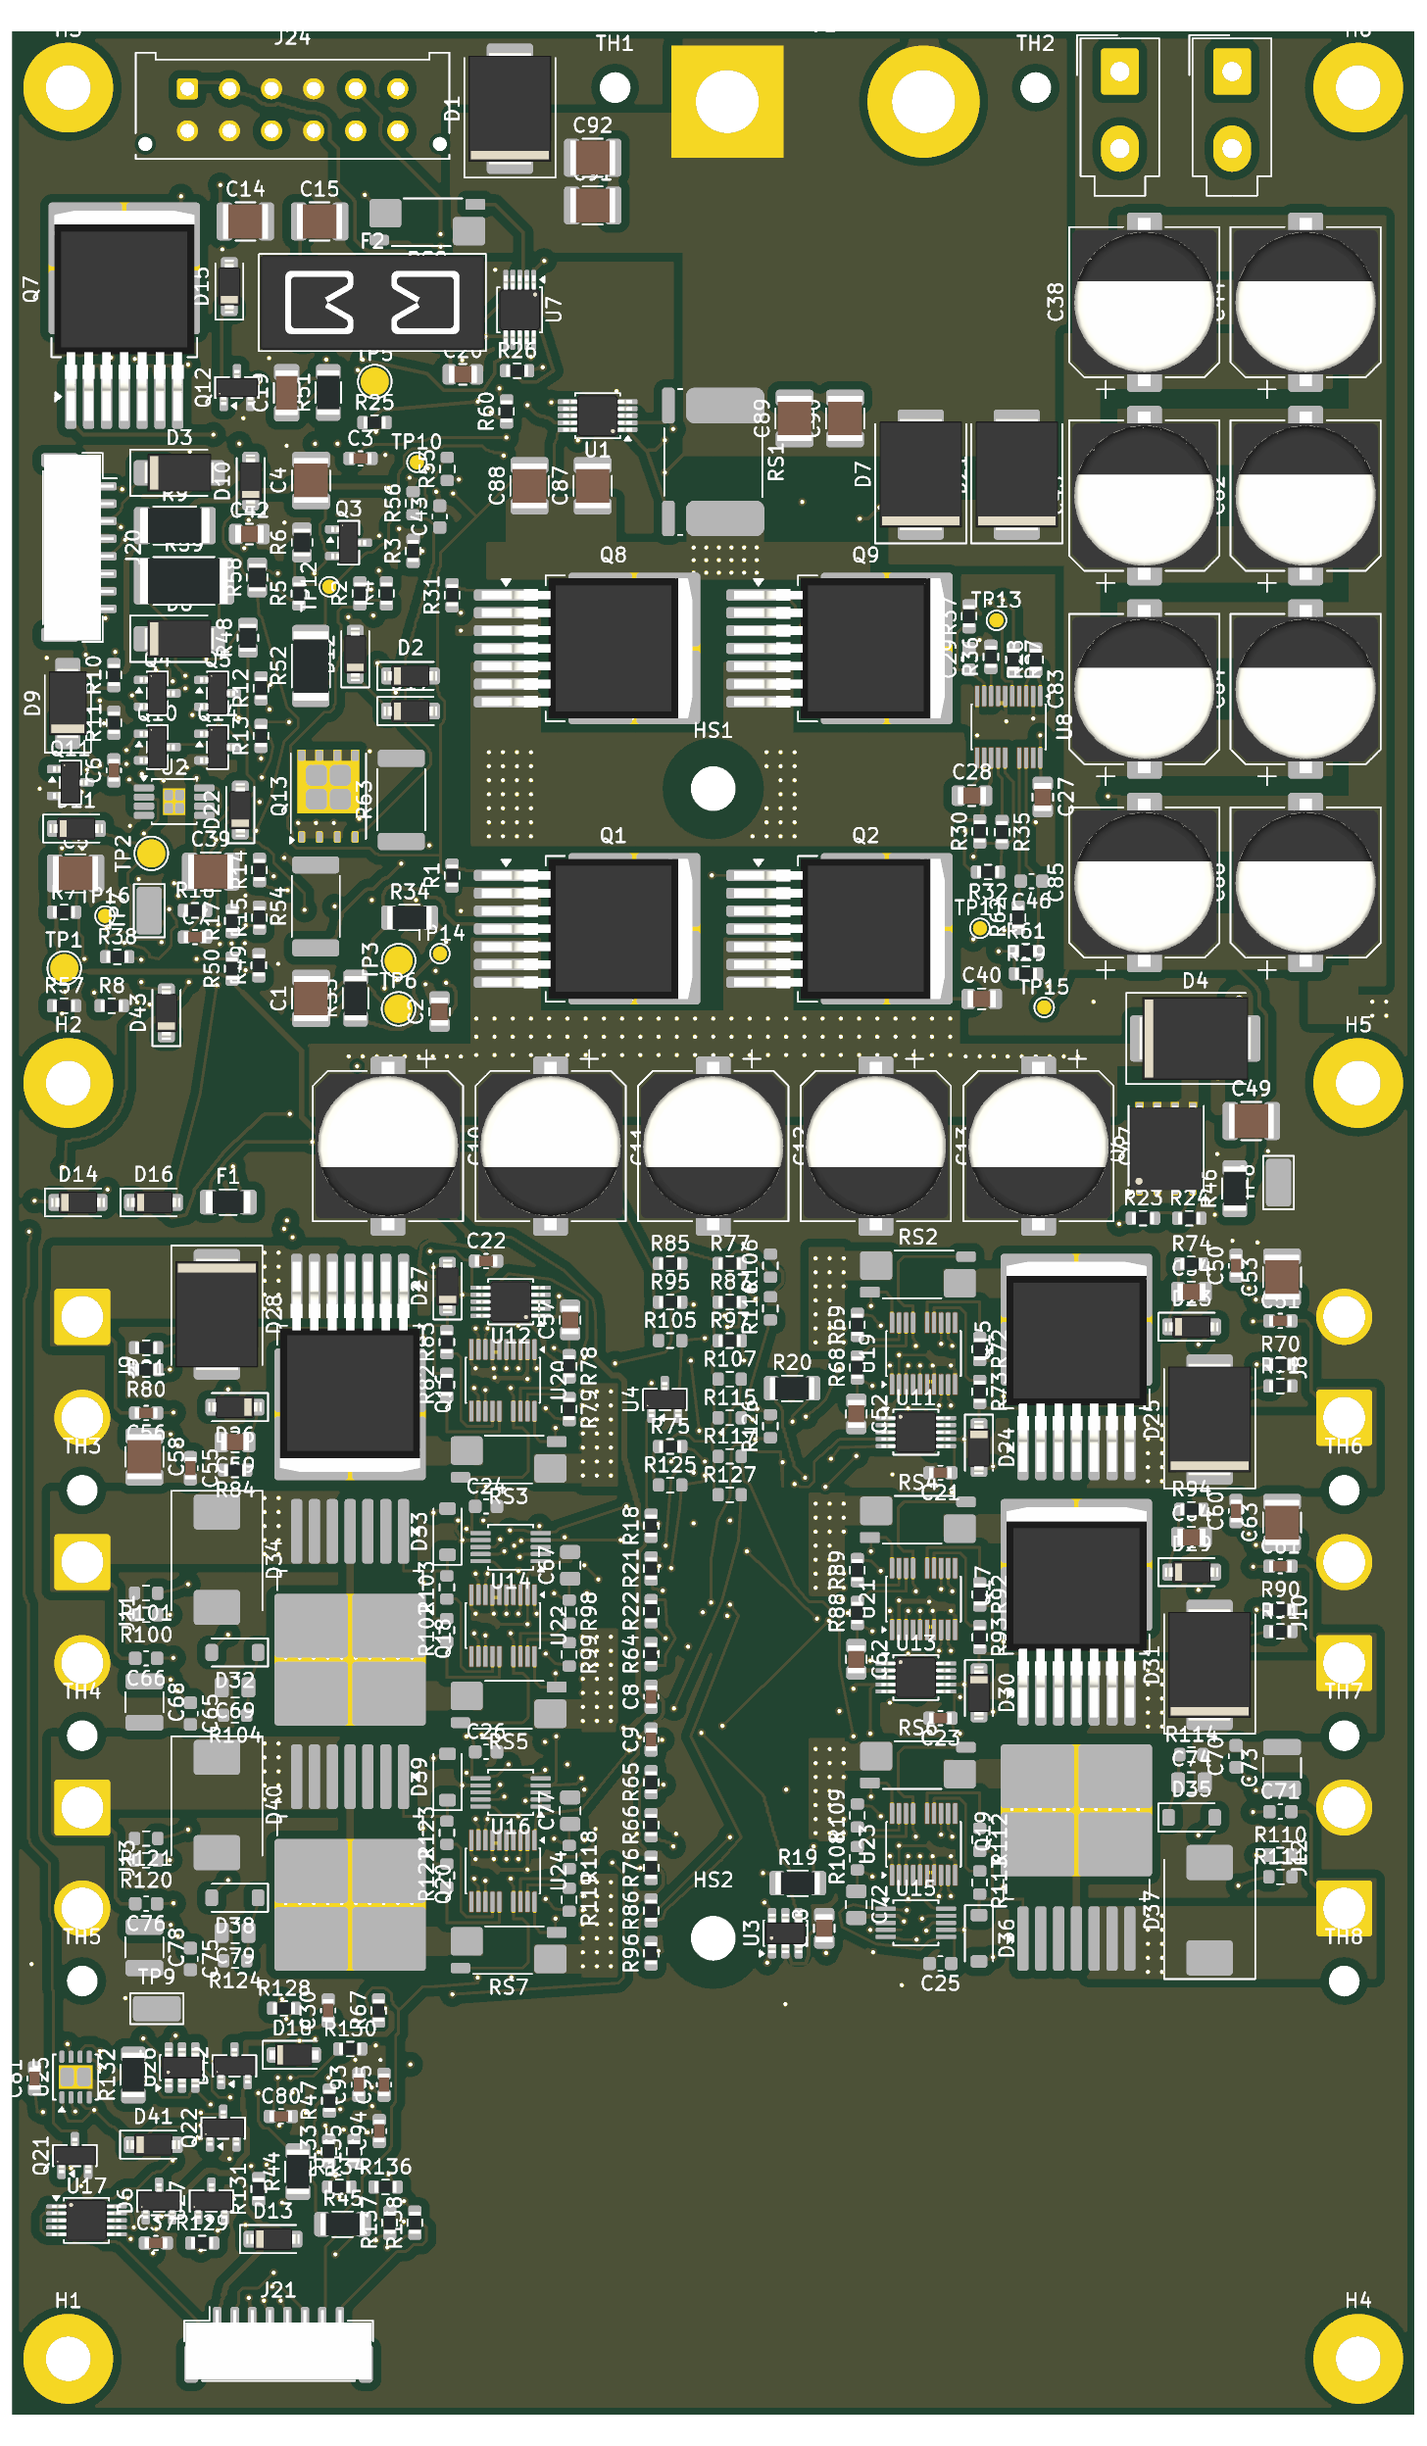
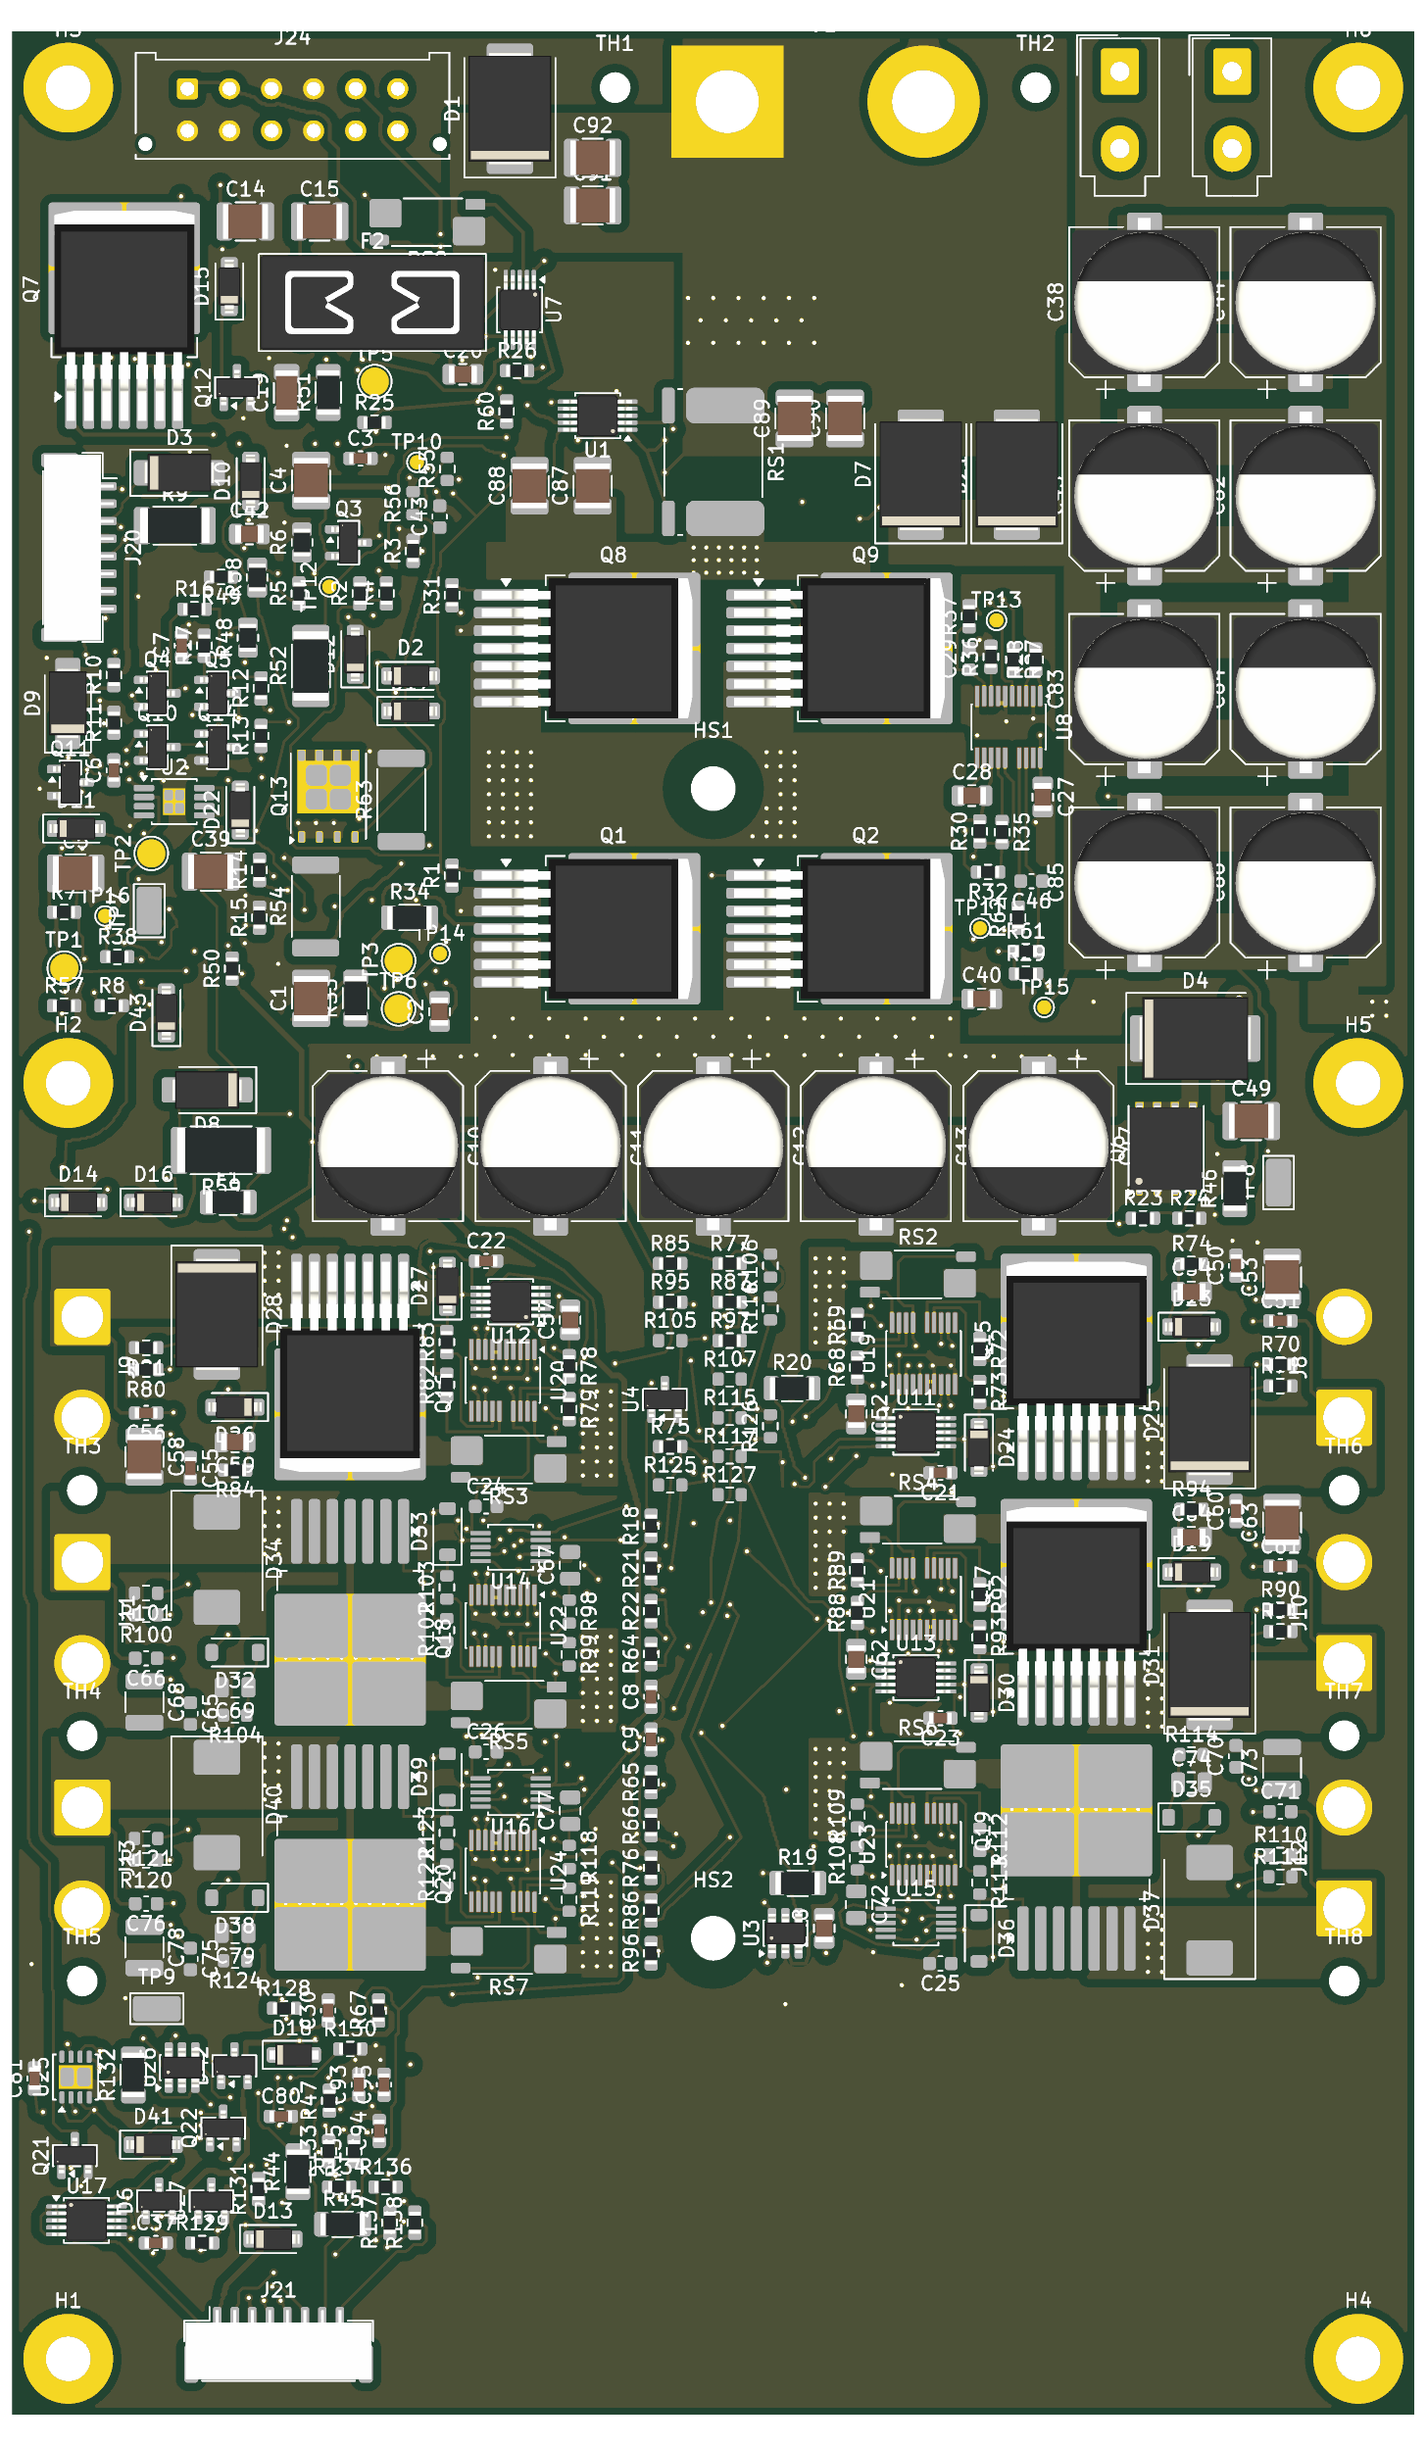
power-board: docs and pictures for the latch supply block, the BAT mirror, the GND return and the port legs; exception 11 is now the documented 0.2 mm for the fail-safe nets, exception 10 the measured stem and legs

Changed region(s): [[0.0927, 0.3125, 0.2163, 0.5], [0.0927, 0.2188, 0.1854, 0.2812]]

diff --git a/hardware/power-board/LAYOUT_RULES.md b/hardware/power-board/LAYOUT_RULES.md
@@ -35,6 +35,9 @@
   | VBUS at Q1's / Q2's source pins | 30 A each | Y 169 | L1 5.0 + L6 6.1 / 5.0 mm | 11.1 / 10.0 mm | 19.0 / 22.5 °C |
   | MID at Q8's / Q9's source pins | 30 A each | Y 149 | L1 5.0 + L6 6.1 / 5.0 mm | 11.1 / 10.0 mm | 19.0 / 22.5 °C |
   | MID band between the FET rows | 60 A | Y 150.25 | L1 35.2 + L6 13.7 mm | 48.9 mm | 8.0 °C |
+  | BAT, pack pad to RS1 | 60 A | Y 121.75 | L1 26.6 + L6 11.2 mm | 37.8 mm | 12.2 °C |
+  | GND return, ports to the pack's GND pad, every layer | 60 A | Y 173.25, under the bus-cap bar | L1 6.7, In1 56.5, In2 32.9, In3 32.8, In4 56.5, L6 5.5 mm | 29.3 mm | 18.5 °C |
+  | Port output legs V_L1–6, source pins to the pigtail pad | 30 A each | | L1 5.0–5.2 + L6 5.2–5.5 mm | 10.4–10.7 mm | 20.2–21.2 °C |
 
   The stem was 25.6 mm of outline on L6 alone, 18.3 mm at its worst cut (Y 221.5) and about 40 °C there. It is now
   38.4 mm of outline on L6 (X 130.8–169.2: the strips beside it were GND fill cut up by the port blocks' vias) with
@@ -45,12 +48,18 @@
   outline. pour_width.py fails the board above 26 °C on the stem and 25 °C elsewhere, and if the VBUS band
   (X 130–160, Y 180–190) holds more than its 18 vias of other nets. The stem's worst case assumes the last two ports
   loaded at 30 A each.
-  **Open before fab:** BAT (27 mm, L1 only) and the port legs (about 5 mm on each outer layer, about 10 mm
-  in total) sit just under their targets: widen them or mirror BAT on L6. The two 0.5 oz GND planes return 60 A across
-  about 90 mm (about 0.8 mOhm, about 3 W spread over the board). By IPC-2221B's internal curve the two planes alone rise
-  about 44 °C at 60 A (about 7,900 mil² for 20 °C, about 4,900 mil² there); the GND fill on L1 and L6 carries part of
-  the return, but its width along the path isn't measured yet. **Open before fab:** measure the outer GND return and
-  show the rise, or add outer GND copper. At layer changes, use about 1 A per 0.3 mm via.
+  BAT was 26.6 mm on L1 alone (21.7 °C); it now has a mirror on L6 from the pack pad to 17 staggered vias north of
+  RS1's pad ([schematic/tools/bat_copper.py](schematic/tools/bat_copper.py)). The L6 share is limited by those vias
+  (about 1 A each), so take the L1 pour as carrying about 43 A of the 60. The GND return was measured the same way for
+  the first time: its worst cut was under the bus-cap bar, where the VBUS via rows at 1.3 and 1.0 mm pitch had merged
+  their clearance holes into a slot 53 mm long through all four inner layers (31 mm of each plane left, 25.1 °C). The
+  rows are now at 2.6 and 2.0 mm, staggered, and the planes keep 56 mm there. The port legs are at their 10.5 mm
+  target and stay as they are: the strips are bounded by the pigtail pads and the neighbouring port. Each port's
+  drain link from the shunt's pad to the FET tab is a 2.1 mm wide, 2.5 mm long neck on L1 between two large copper
+  areas (0.29 mΩ, 0.26 W at 30 A, about 3 K by conduction into the pads); IPC's long-trace curve does not apply to it
+  and pour_width.py does not measure it. Floors in pour_width.py: stem 26 °C, BAT 15 °C, GND return 21 °C, port
+  legs 22 °C, the rest 25 °C. At layer changes, use about 1 A per 0.3 mm via, and never put vias of one net closer
+  than 1.8 mm in a row across a return path: at 0.3 mm plane clearance their holes are 1.2 mm wide.
 
 ## Power path
 
@@ -186,14 +195,18 @@ from it does, net by net (values from schematic/gen/gen.py; leakage pulls a net 
 
 No single leakage path keeps power on through a pressed E-stop: the PNP loses its supply, and the two banks take RUN
 through separate diodes. The nets in bold are the ones where leakage in the megohm range removes one of those layers
-or re-arms the latch, so they should keep 1.5 mm to BAT_F, BAT_R and BAT_CTL
-([schematic/tools/domains.py](schematic/tools/domains.py) LEAK_SENSITIVE). **They don't yet** (exception 11): 135 item
-pairs are closer, because the supply chain's parts (R59, D8, C39, F1's via) stand courtyard to courtyard with Q5, R48,
-R16 and the RUN_B track. Clearing them means re-placing the latch block as a designed block, like U8's; it is not a
-local move (the BAT_F via 0.30 mm from a RUN via at (112.35, 145.95) is in the same knot, and RUN itself may stay at
-0.2 mm by the table). route_checks check 10 counts the pairs and fails above 135, so they can only go down. The
-coating covers these gaps as it covers the 0.2 mm domain gaps; until the block is re-laid, that and the flux wash are
-what stand between the supply and these nets.
+or re-arms the latch, so they keep 1.5 mm to BAT_F, BAT_R and BAT_CTL on every layer
+([schematic/tools/domains.py](schematic/tools/domains.py) LATCH_SUPPLY and LEAK_SENSITIVE; the .kicad_dru rule
+`latch_supply_leak`; route_checks checks 1/2 and 10). As packed, 135 item pairs were closer: R59 and D8 stood
+courtyard to courtyard with Q5, R48 and the RUN_B track, and L_B ran 17 mm south past U2's BAT_CTL pins. The supply
+chain is now a designed block ([schematic/tools/latch_block.py](schematic/tools/latch_block.py), 2026-11-10):
+- R59 and D8 sit south of the logic beside F1 (page Y 173.7–181.8), so BAT_F and BAT_R are 4 mm long and stay there;
+- BAT_CTL runs north on F.Cu in one lane (X 114.6) to C39 and U2's pins 5 and 8, with no via: no supply copper is on
+  an inner layer under the latch block (route_checks check 4 now tests the chain too);
+- R16, R17 and C7 sit at Q5's base where R59 and D8 were, so L_B is a 5 mm net; R49 sits beside R48, so MID_B's two
+  resistors are together;
+- MID_B, and the copper of other nets that lay in the way, were re-routed by finish_route.py to the same rule.
+The fail-safe nets of the table keep 0.2 mm to the chain; that is the documented exception, not an open item.
 
 ## Clearance
 
@@ -283,7 +296,9 @@ How the board got there:
   the logic row faces north and the 54 V row south; R27, R28, TP13, R36, C29 and R37 sit north of it, every 54 V part
   south. EN_A and FLT_A run from the pins on F.Cu with no via. The SH pair runs on In2 down the middle of the column
   to R61/R62 (62 % of both legs paired).
-- **VBUS stem copper** (schematic/tools/vbus_copper.py), the **bare heatsink pads** (heatsink_pads.py) and the **E-stop
+- **Latch supply block** (schematic/tools/latch_block.py, `MODE=check` / `MODE=sync`): "Leakage from the latch supply"
+  above. tools/place.py takes the whole latch group's positions from it.
+- **VBUS stem copper** (schematic/tools/vbus_copper.py), the **BAT mirror** (bat_copper.py), the **bare heatsink pads** (heatsink_pads.py) and the **E-stop
   guard areas** (estop_guards.py; none is needed at the present placement) are generated from the board and rebuilt
   by their scripts.
 - **J24** pads 6-12 follow the schematic (6 +3V3_PI, 7-8 GND, 9 SP_EN, 10 GND, 11 SCL, 12 SDA, as on the buck board's
@@ -322,8 +337,8 @@ Rule exceptions and open items on this board, each tested or bounded by a check:
 | 7 | Signal and GND vias pass through the L6 VBUS stem, 18 of them in the band X 130-160, Y 180-190 | under the meter blocks and the port blocks | band rule: no new ones | pour_width.py (18 at most; the stem's rise) |
 | 8 | Masked copper (the VBUS stem, the vias through it, GND fill) inside the heatsink zone on L6; bare copper only at the ten FET pads, under an insulating pad that is the only insulation there | X -33..33, Y 200-305 | the rule as the board meets it; the pad is specified (GAP PAD TGP 3000, 0.020 in, over 3000 Vac). Open: the heatsink floats; a 100 kΩ tie to GND with a test point is recommended and needs a schematic change | heatsink_pads.py MODE=check, DRC's solder-mask bridge check |
 | 9 | SH9 Kelvin pair 9 % paired | RS9 to U7 | open: needs RS9 or U7 moved | route_checks 3 (floor 9 %) |
-| 10 | VBUS stem 25.3 °C at its worst cut (target 20 °C, about 25 accepted); BAT (27 mm, L1 only) and the port legs just under their 27.5 / 10.5 mm targets; the outer GND return not measured | Board, above | the stem: done as far as the copper goes; the rest open before fab | pour_width.py (stem 26 °C, columns and band 25 °C) |
-| 11 | The latch supply (BAT_F, BAT_R, BAT_CTL) within 1.5 mm of leakage-sensitive E-stop nets (L_B, MID_B, RUN_A, RUN_B): 135 item pairs | latch block, X 108-118, Y 136-165 | open: needs the latch block re-placed as a designed block ("Leakage from the latch supply") | route_checks 10 (135 at most) |
+| 10 | VBUS stem 25.3 °C at its worst cut (target 20 °C, about 25 accepted); port legs 20.2–21.2 °C (at their 10.5 mm target, bounded by the pads) | Board, above | accepted as measured; BAT (12.2 °C) and the GND return (18.5 °C) are no longer open | pour_width.py floors for every path |
+| 11 | The fail-safe E-stop nets (RUN, LOOP_RET, L_PB, L_E, L_PC, RUN_P, VB_B, INT_B, RST_SRC, RST_IN) keep 0.2 mm, not 1.5 mm, to the latch supply chain, which is at 54 V but not on the 54 V list | latch block | by the leakage table ("Leakage from the latch supply"); the leakage-sensitive nets keep 1.5 mm (0 pairs closer) | route_checks 1/2 and 10, DRC `latch_supply_leak` |
 | 12 | The 100k gate pull-up resistor R4 is 5.9 mm from the gate pin (rule: gate resistor at the gate pin); the 22 Ω R5 is at 3.2 mm | each port | kept: the corridor holds one 0603 column, and 100 kΩ swamps the track | port_template.py MODE=check |
 | 13 | R2 and R32 sit at their controllers, not at Q2's and Q9's gates | bank A and B | kept: no room at the gates (Gate parts, below; R2 at the tee tried, above) | none |
 

diff --git a/hardware/power-board/layout/HAND_FINISH.md b/hardware/power-board/layout/HAND_FINISH.md
@@ -1,7 +1,7 @@
 # Finishing the rev B5 board
 
 **Nothing is open in the routing (2026-11-10).** Every connection is routed and `verify_board.sh` passes. The state,
-the rule exceptions and open items (13, among them G2's via through the L6 MID mirror and the latch supply's spacing)
+the rule exceptions (13, among them G2's via through the L6 MID mirror)
 and the hand-laid copper are in [LAYOUT_RULES.md](../LAYOUT_RULES.md), "Routing state" and "Exceptions and hand-laid
 copper". [open_nets.csv](open_nets.csv) lists the open connections: only its header.
 
@@ -9,10 +9,13 @@ copper". [open_nets.csv](open_nets.csv) lists the open connections: only its hea
 
 - No new vias in the VBUS band, Y 180-190 mm, X 130-160 (18 vias of other nets are there; pour_width.py fails on a 19th).
 - Don't unlock or drag locked tracks: the port and U8 templates, the gate drives and the Kelvin pairs are locked. Change a
-  template in its script (port_copper.py, u8_block.py) and run it with `MODE=sync`; put any other hand-laid copper in
+  template in its script (port_copper.py, u8_block.py, latch_block.py) and run it with `MODE=sync`; put any other hand-laid copper in
   schematic/tools/hand_laid.specs and lay it with lay_path.py.
 - E-stop nets (ESTOP class) keep 1.5 mm from 54 V copper; the DRC holds it. The one exception is inside U1's courtyard,
   between F.Cu pads, tracks and vias, where U1's own UVLO and SH_P pins are 0.2 mm apart.
+- L_B, RST_C, MID_B, RUN_A, EN_A, RUN_B, UVLO and FLT_D keep 1.5 mm from BAT_F, BAT_R and BAT_CTL (the latch's own 54 V
+  supply); the DRC rule `latch_supply_leak` holds it. No supply copper on the inner layers under the latch block.
+- No row of vias of one net closer than 1.8 mm across a return path: the clearance holes merge into a slot in the planes.
 - Nothing closer than 0.2 mm anywhere (JLCPCB's minimum for 2 oz outer copper); there is no fine-pitch rule.
 - No tracks on In1 or In4. No via in or touching a signal pad (the vias in the power pads and under the FET tabs are the
   filled and capped ones). No via of another net in a MID pour, and at most 2 vias on a gate net: route_checks checks 7

diff --git a/hardware/power-board/README.md b/hardware/power-board/README.md
@@ -7,10 +7,10 @@ after bring-up. A separate buck board makes the 12 V and carries the 12 V output
 **Status (2026-11-10):** schematic done, ERC clean. The 6-layer board in [layout/](layout) is fully routed (0 open) and
 schematic/tools/verify_board.sh passes: DRC with schematic parity, route_checks, the joint, template, pour and heatsink-pad
 checks, check.py and bom_check.py (schematic/tools/verify_selftest.sh shows each of them failing on a broken copy). The
-big review's fix round is in; **not ready to order yet**: 13 exceptions and open items are listed in
-[LAYOUT_RULES.md](LAYOUT_RULES.md), "Exceptions and hand-laid copper", among them the latch supply's spacing to
-leakage-sensitive E-stop nets (needs the latch block re-placed), and the copper still under target on BAT and the port legs. The six port blocks and the U8
-block are designed templates (schematic/tools/port_template.py, port_copper.py, u8_block.py); the rest was routed by the
+big review's fix rounds are in. What is left before ordering is in [LAYOUT_RULES.md](LAYOUT_RULES.md), "Exceptions and
+hand-laid copper" (13 exceptions, each held by a check) and in [THERMAL_OPTION.md](THERMAL_OPTION.md) (the heatsink's
+100 kΩ tie to GND, which needs a schematic change). The six port blocks, the U8 block
+and the latch supply are designed blocks (schematic/tools/port_template.py, port_copper.py, u8_block.py, latch_block.py); the rest was routed by the
 staged scripts and the finishing tools. The pictures in layout/renders/routed_* come from
 schematic/tools/render_export.py and render_routed.py.
 
